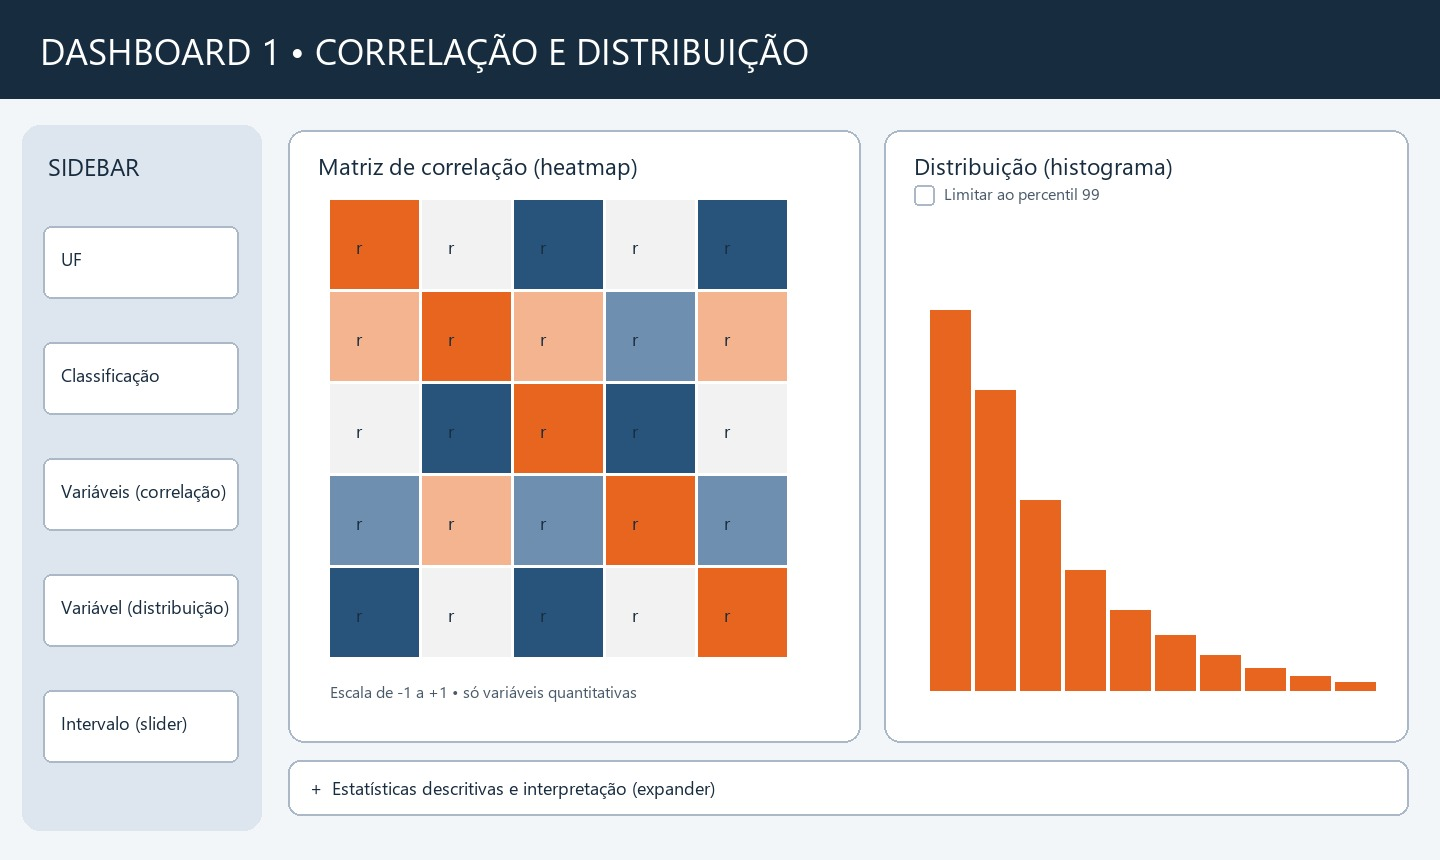
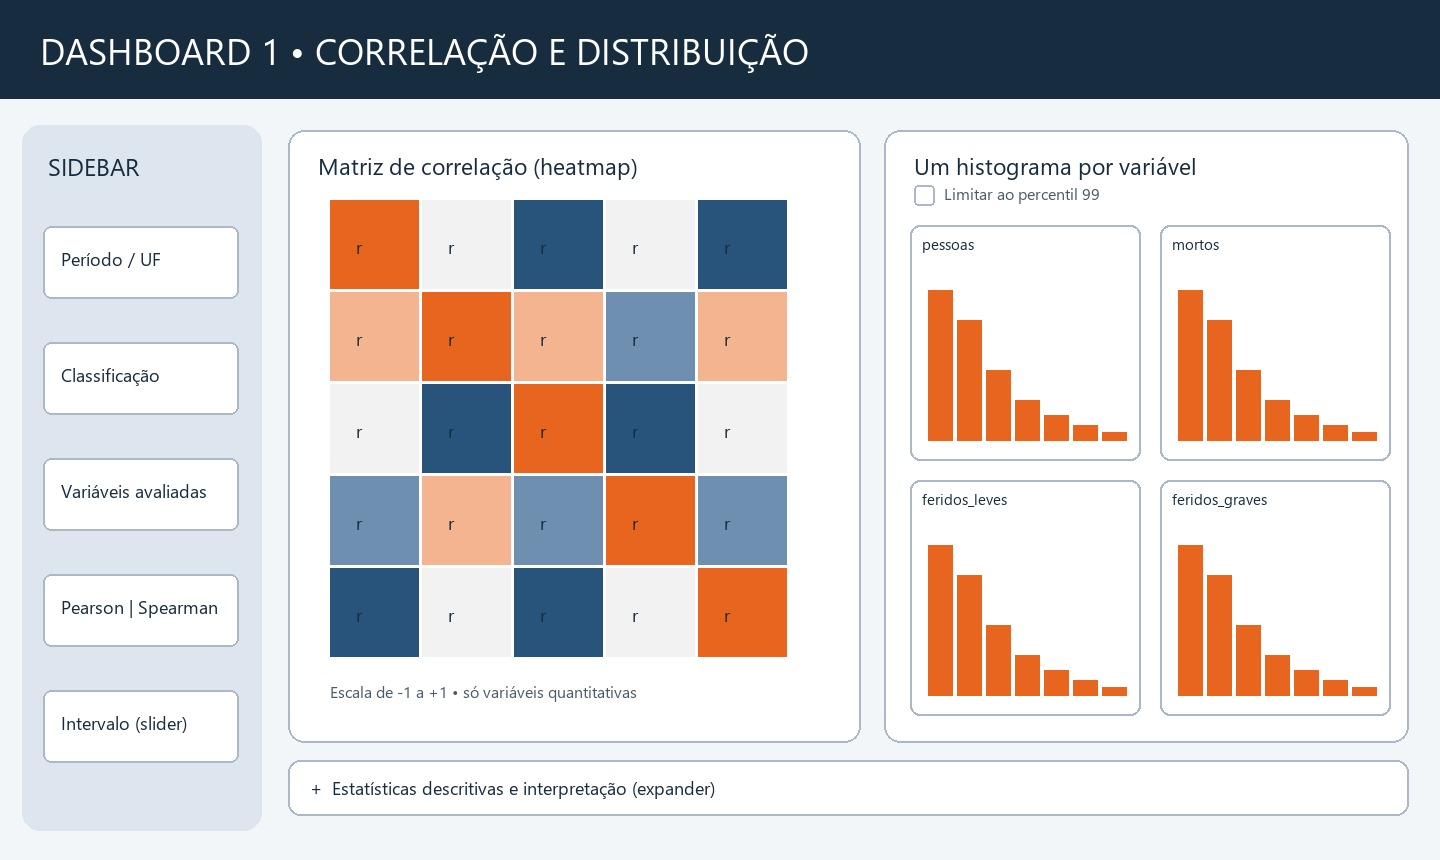
Dashboard 1 com um histograma por variavel avaliada; publico-alvo no Dashboard 2

diff --git a/app.py b/app.py
@@ -17,6 +17,33 @@ def formatar(valor):
     return f"{valor:,.0f}".replace(",", ".") if pd.notna(valor) else "N/D"
 
 
+def histograma(serie, nome, p99=False):
+    """Histograma de uma variável de contagem: uma barra por valor (0, 1, 2...).
+
+    As contagens são muito assimétricas, então a cauda rara (acima do percentil 99,5) vira uma
+    última barra "N+". A contagem é feita no pandas e o Altair recebe só a tabela resumida.
+    """
+    valores = serie.dropna()
+    if p99:
+        valores = valores[valores <= valores.quantile(0.99)]
+    if valores.empty:
+        st.info(f"Sem valores válidos de {nome}.")
+        return
+    corte = int(max(10, np.ceil(valores.quantile(0.995))))
+    inteiros = valores.round().astype(int)
+    rotulos = inteiros.where(inteiros <= corte, corte + 1)
+    freq = rotulos.value_counts().sort_index().rename_axis("valor").reset_index(name="acidentes")
+    freq["faixa"] = freq["valor"].astype(str)
+    freq.loc[freq["valor"] > corte, "faixa"] = f"{corte + 1}+"
+    barras = alt.Chart(freq).mark_bar(color=LARANJA).encode(
+        x=alt.X("faixa:N", title=nome, sort=freq["faixa"].tolist(), axis=alt.Axis(labelAngle=0)),
+        y=alt.Y("acidentes:Q", title="Acidentes"),
+        tooltip=[alt.Tooltip("faixa:N", title=nome), alt.Tooltip("acidentes:Q", title="Acidentes", format=",.0f")],
+    )
+    st.altair_chart(barras.properties(height=200, title=nome), width="stretch", alt=f"Histograma da variável {nome}")
+    st.caption(f"média {valores.mean():.2f} • mediana {valores.median():.0f} • máx. {valores.max():.0f}")
+
+
 st.title("🚗 Acidentes em rodovias federais")
 st.caption("Análise e Visualização de Dados • Aulas 21 a 23 • EDA da base PRF/Kaggle (2007–2020)")
 
@@ -48,9 +75,10 @@ if "classificacao_acidente" in df:
         mascara &= df["classificacao_acidente"].isin(classes)
 
 st.sidebar.subheader("Dashboard 1")
-selecionadas = st.sidebar.multiselect("Variáveis para correlação", quant, default=quant[:4])
+selecionadas = st.sidebar.multiselect("Variáveis avaliadas (correlação e histogramas)", quant, default=quant[:4])
 metodo = st.sidebar.segmented_control("Método da correlação", ["Pearson", "Spearman"], default="Pearson")
-variavel = st.sidebar.selectbox("Variável para distribuição", quant)
+variavel = st.sidebar.selectbox("Variável do filtro de intervalo", quant,
+                                help="O slider abaixo exclui da análise os acidentes fora do intervalo escolhido.")
 serie = df.loc[mascara, variavel].dropna()
 if serie.empty:
     st.warning("Não há valores disponíveis com os filtros escolhidos.")
@@ -115,32 +143,22 @@ with tab1:
                                 alt=f"Mapa de calor da correlação de {metodo} entre as variáveis selecionadas")
 
     with col_dist:
-        st.markdown(f"**Distribuição de `{variavel}`**")
+        st.markdown("**Distribuição: um histograma por variável avaliada**")
         p99 = st.toggle("Limitar visualização ao percentil 99 (sem alterar indicadores)", value=False)
-        valores_var = filtrado[variavel].dropna()
-        if p99:
-            valores_var = valores_var[valores_var <= valores_var.quantile(0.99)]
-        if valores_var.empty:
-            st.info("Sem valores válidos para gerar o histograma.")
+        if not selecionadas:
+            st.info("Selecione ao menos uma variável para ver a distribuição.")
         else:
-            # As variáveis são contagens inteiras e muito assimétricas: uma barra por valor (0, 1, 2...)
-            # e a cauda rara (acima do percentil 99,5) junta numa última barra "N+".
-            # A contagem é feita no pandas e o Altair recebe só a tabela resumida.
-            corte = int(max(10, np.ceil(valores_var.quantile(0.995))))
-            inteiros = valores_var.round().astype(int)
-            rotulos = inteiros.where(inteiros <= corte, corte + 1)
-            freq = rotulos.value_counts().sort_index().rename_axis("valor").reset_index(name="acidentes")
-            freq["faixa"] = freq["valor"].astype(str)
-            freq.loc[freq["valor"] > corte, "faixa"] = f"{corte + 1}+"
-            barras = alt.Chart(freq).mark_bar(color=LARANJA).encode(
-                x=alt.X("faixa:N", title=variavel, sort=freq["faixa"].tolist(), axis=alt.Axis(labelAngle=0)),
-                y=alt.Y("acidentes:Q", title="Acidentes"),
-                tooltip=[alt.Tooltip("faixa:N", title=variavel),
-                         alt.Tooltip("acidentes:Q", title="Acidentes", format=",.0f")])
-            st.altair_chart(barras.properties(height=420), width="stretch",
-                            alt=f"Histograma da variável {variavel}")
-            st.caption(f"Média {valores_var.mean():.2f} • mediana {valores_var.median():.0f} • "
-                       f"máximo {valores_var.max():.0f}")
+            # Grade de 2 colunas, um histograma por variável selecionada (cada um com a sua escala)
+            for inicio in range(0, len(selecionadas), 2):
+                for coluna, var in zip(st.columns(2), selecionadas[inicio:inicio + 2]):
+                    with coluna:
+                        histograma(filtrado[var], var, p99)
+
+    with st.expander("Estatísticas descritivas e interpretação"):
+        st.dataframe(filtrado[quant].describe().T.round(2), width="stretch")
+        st.caption("Correlação não implica causalidade. As variáveis são contagens por acidente, com forte assimetria "
+                   "(muitos zeros); por isso o Spearman é oferecido como alternativa ao Pearson. "
+                   "Nos histogramas, a cauda rara (acima do percentil 99,5) fica agrupada na última barra (N+).")
 
     with st.expander("Estatísticas descritivas e interpretação"):
         st.dataframe(filtrado[quant].describe().T.round(2), width="stretch")
@@ -150,6 +168,9 @@ with tab1:
 # ----------------------------- Dashboard 2 -----------------------------
 with tab2:
     st.subheader("Indicadores de frequência e gravidade")
+    st.markdown("**Público-alvo:** gestores e equipes de segurança viária e planejamento (PRF, DNIT e "
+                "secretarias estaduais), que precisam decidir **onde** e **quando** priorizar fiscalização "
+                "e prevenção.")
     area_kpis = st.container()  # os KPIs são desenhados depois, já considerando o clique no gráfico
     st.markdown("**Clique em uma UF** para filtrar os KPIs e os outros gráficos "
                 "(Shift + clique seleciona várias; clique duplo limpa).")

diff --git a/entregas/justificativa-metricas.md b/entregas/justificativa-metricas.md
@@ -1,7 +1,7 @@
 # Justificativa das métricas — Dashboard 2
 
 **Tema:** Acidentes em rodovias federais brasileiras (2007–2020).  
-**Público-alvo geral:** gestores de segurança viária, analistas de dados e equipes de planejamento.  
+**Público-alvo geral:** gestores e equipes de segurança viária e planejamento (PRF, DNIT e secretarias estaduais), que precisam decidir onde e quando priorizar fiscalização e prevenção. Esse público aparece descrito no topo do Dashboard 2.  
 **Cuidados:** todos os indicadores respeitam os filtros; a base descreve acidentes registrados e não fornece volume de tráfego ou distância percorrida. Portanto, contagens não são medidas de risco.
 
 ## 1. Acidentes registrados
